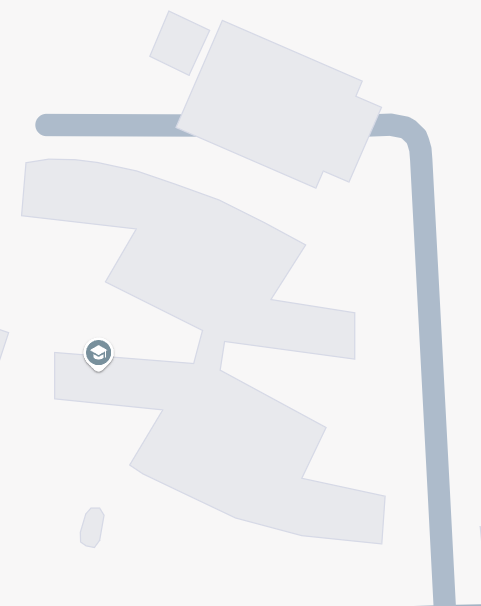
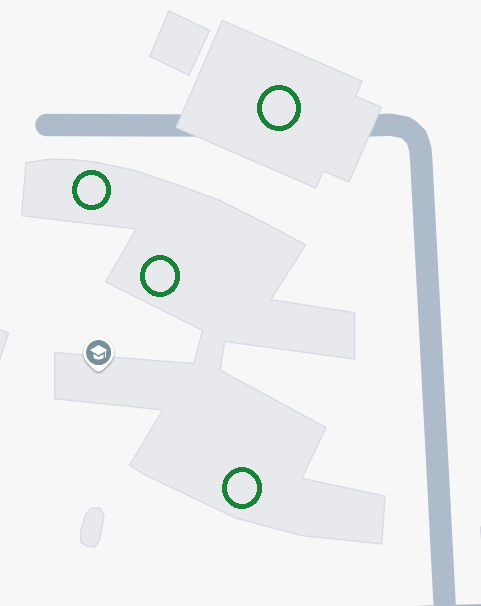
p3

diff --git a/mapa.html b/mapa.html
@@ -1,39 +1,82 @@
 <!DOCTYPE html>
 <html lang="pt-BR">
 <head>
-  <meta charset="UTF-8" />
-  <meta name="viewport" content="width=device-width, initial-scale=1.0" />
+  <meta charset="UTF-8">
+  <meta name="viewport" content="width=device-width, initial-scale=1.0">
   <title>Mapa da Escola</title>
-  <link rel="stylesheet" href="css/style6.css" />
+  <link rel="stylesheet" href="css/style6.css">
 </head>
 <body>
-  <nav>
-    <div class="logo">
-      <img src="img/logo.png" alt="Logo da Escola" />
-    </div>
-    <ul class="menu">
-      <li><a href="#">Início</a></li>
-      <li><a href="#">Eventos</a></li>
-      <li><a href="#">Contato</a></li>
-    </ul>
-  </nav>
+  <header>
+    <img src="img/logo.png" alt="Logo da Escola" class="logo">
+    <nav>
+      <ul>
+        <li><a href="#">Início</a></li>
+        <li><a href="#">Eventos</a></li>
+        <li><a href="#">Contato</a></li>
+      </ul>
+    </nav>
+  </header>
 
-  <div class="mapa-container">
-    <img src="img/mapa.png" alt="Mapa da Escola" class="mapa-imagem" />
+  <main class="container">
+    <div class="mapa">
+      <img src="img/mapa.png" alt="Mapa da Escola" class="mapa-img">
 
-    <!-- Ícones dos eventos -->
-    <div class="evento" style="top: 19%; left: 70%;" title="Evento Quadra">
-      <img src="icone.png" alt="Quadra" />
+      <!-- Evento 1 -->
+      <div class="evento" style="top: 17.2%; left: 58.7%;">
+        <img src="img/evento1.png" alt="Evento 1">
+        <div class="info">
+          <h3>Campeonato de Futsal</h3>
+          <p><strong>Horário:</strong> 09:00 - 11:00</p>
+          <p><strong>Descrição:</strong> Partidas entre turmas do ensino fundamental.</p>
+          <p><strong>Responsável:</strong> Sala de Educação Física</p>
+        </div>
+      </div>
+
+      <!-- Evento 2 -->
+      <div class="evento" style="top: 26.5%; left: 35.7%;">
+        <img src="img/evento2.png" alt="Evento 2">
+        <div class="info">
+          <h3>Exposição de Ciências</h3>
+          <p><strong>Horário:</strong> 10:00 - 12:00</p>
+          <p><strong>Descrição:</strong> Experimentos e maquetes feitas pelos alunos.</p>
+          <p><strong>Responsável:</strong> Sala 5A</p>
+        </div>
+      </div>
+
+      <!-- Evento 3 -->
+      <div class="evento" style="top: 36.5%; left: 30.5%;">
+        <img src="img/evento3.png" alt="Evento 3">
+        <div class="info">
+          <h3>Contação de Histórias</h3>
+          <p><strong>Horário:</strong> 13:00 - 14:00</p>
+          <p><strong>Descrição:</strong> Histórias infantis com participação dos alunos.</p>
+          <p><strong>Responsável:</strong> Biblioteca</p>
+        </div>
+      </div>
+
+      <!-- Evento 4 -->
+      <div class="evento" style="top: 47.5%; left: 36.4%;">
+        <img src="img/evento4.png" alt="Evento 4">
+        <div class="info">
+          <h3>Oficina de Programação</h3>
+          <p><strong>Horário:</strong> 14:00 - 16:00</p>
+          <p><strong>Descrição:</strong> Introdução à lógica de programação em blocos.</p>
+          <p><strong>Responsável:</strong> Sala de Informática</p>
+        </div>
+      </div>
+
+      <!-- Evento 5 -->
+      <div class="evento" style="top: 17.5%; left: 44.6%;">
+        <img src="img/evento5.png" alt="Evento 5">
+        <div class="info">
+          <h3>Palestra Motivacional</h3>
+          <p><strong>Horário:</strong> 15:00 - 16:30</p>
+          <p><strong>Descrição:</strong> Superação e foco nos estudos com ex-alunos.</p>
+          <p><strong>Responsável:</strong> Coordenação</p>
+        </div>
+      </div>
     </div>
-    <div class="evento" style="top: 29%; left: 61%;" title="Evento Salas">
-      <img src="icone.png" alt="Salas" />
-    </div>
-    <div class="evento" style="top: 37%; left: 66%;" title="Evento Biblioteca">
-      <img src="icone.png" alt="Biblioteca" />
-    </div>
-    <div class="evento" style="top: 46%; left: 50%;" title="Evento Informática">
-      <img src="icone.png" alt="Informática" />
-    </div>
-  </div>
+  </main>
 </body>
 </html>

diff --git a/css/style6.css b/css/style6.css
@@ -1,83 +1,105 @@
-* {
-    margin: 0;
-    padding: 0;
-    box-sizing: border-box;
-  }
-  
-  body {
-    background-color: black;
-    font-family: Arial, sans-serif;
-    color: white;
-    overflow-x: hidden;
-  }
-  
-  nav {
-    background-color: rgba(0, 0, 0, 0.9);
-    padding: 0.5rem 2rem;
-    position: fixed;
-    width: 100%;
-    top: 0;
-    z-index: 1000;
-    display: flex;
-    justify-content: space-between;
-    align-items: center;
-  }
-  
-  .logo img {
-    height: 40px;
-    width: auto;
-  }
-  
-  .menu {
-    list-style: none;
-    display: flex;
-    gap: 2rem;
-  }
-  
-  .menu li a {
-    color: white;
-    text-decoration: none;
-    font-weight: bold;
-    transition: color 0.3s;
-  }
-  
-  .menu li a:hover {
-    color: limegreen;
-  }
-  
-  .mapa-container {
-    position: relative;
-    margin-top: 60px; /* sobe um pouco */
-    width: 100%;
-    height: calc(100vh - 70px);
-    overflow: hidden;
-    display: flex;
-    justify-content: center;
-    align-items: start;
-  }
-  
-  .mapa-imagem {
-    height: 115%;
-    width: auto;
-    max-width: none;
-  }
-  
-  .evento {
-    position: absolute;
-    transform: translate(-600%, 100%);
-    width: 50px;
-    height: 50px;
-    border-radius: 50%;
-    overflow: hidden;
-    border: 2px solid limegreen;
-    background-color: white;
-    z-index: 10;
-    cursor: pointer;
-  }
-  
-  .evento img {
-    width: 100%;
-    height: 100%;
-    object-fit: cover;
-  }
-  
+    body {
+      margin: 0;
+      background: black;
+      font-family: 'Courier New', Courier, monospace;
+      color: #0ff;
+    }
+
+    header {
+      display: flex;
+      justify-content: space-between;
+      align-items: center;
+      padding: 10px 20px;
+      background: #000;
+      border-bottom: 2px solid #0ff;
+    }
+
+    .logo {
+      height: 40px;
+    }
+
+    nav ul {
+      list-style: none;
+      display: flex;
+      gap: 20px;
+      margin: 0;
+      padding: 0;
+    }
+
+    nav a {
+      color: #0ff;
+      text-decoration: none;
+      font-weight: bold;
+      transition: color 0.3s;
+    }
+
+    nav a:hover {
+      color: #fff;
+    }
+
+    .container {
+      display: flex;
+      justify-content: center;
+      align-items: center;
+      height: 100vh;
+      position: relative;
+    }
+
+    .mapa {
+      position: relative;
+      border: 2px solid #0ff;
+      box-shadow: 0 0 20px #0ff;
+    }
+
+    .mapa-img {
+      width: 100%;
+      max-width: 600px;
+      height: auto;
+      display: block;
+      filter: brightness(0.9) contrast(1.2);
+    }
+
+    .evento {
+      position: absolute;
+      width: 50px;
+      height: 50px;
+      border: 2px solid #0ff;
+      border-radius: 50%;
+      overflow: hidden;
+      cursor: pointer;
+      transition: transform 0.2s ease, box-shadow 0.3s ease;
+      box-shadow: 0 0 10px #0ff;
+    }
+
+    .evento:hover {
+      transform: scale(1.1);
+      box-shadow: 0 0 20px #0ff;
+    }
+
+    .evento img {
+      width: 100%;
+      height: 100%;
+      object-fit: cover;
+      display: block;
+    }
+
+    .info {
+      position: absolute;
+      top: 60px;
+      left: 50%;
+      transform: translateX(-50%);
+      background: rgba(0, 0, 0, 0.9);
+      color: #0ff;
+      padding: 10px;
+      border: 1px solid #0ff;
+      border-radius: 8px;
+      width: 220px;
+      display: none;
+      z-index: 10;
+      font-size: 0.9rem;
+      box-shadow: 0 0 15px #0ff;
+    }
+
+    .evento:hover .info {
+      display: block;
+    }
